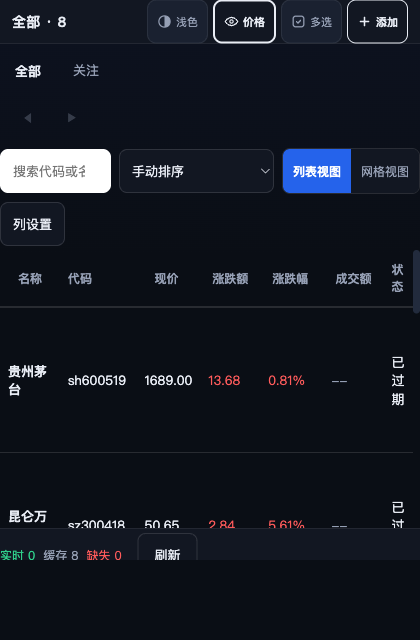
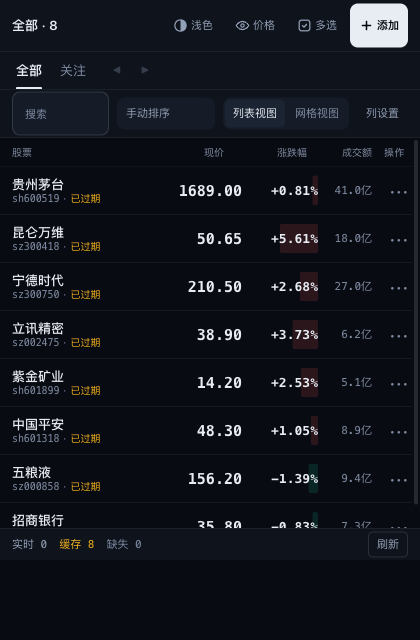
feat(ui): recoverable board states + refresh store assets for the new design
计划 Task 8 收尾：

- 骨架屏改为六行，与 390px 看板一屏行数一致，读起来像「正在来的那一屏」；
  仍然零假数字。
- 空态从一句「暂无数据」改为真正的邀请：说明文案 + 「添加股票」主操作。
  文案写进独立段落——直接设 emptyEl.textContent 会把 CTA 一起清掉。
- 空态 CTA 的监听器跟随连接周期（buildSkeleton 接收 AbortSignal），
  重连不会重复绑定。

商店素材按新视觉重拍。顺带给演示数据补上成交额：原来 8 只股票都没有 amount，
新版列表里整列渲染成 '--'，商店访客会当成功能坏了。数量级参考真实盘面。

验证：check 全绿；unit/critical 753、component 220、e2e 75、a11y 14 全过。

diff --git a/src/popup/components/stock-board.ts b/src/popup/components/stock-board.ts
@@ -5,6 +5,7 @@
 // 不含过滤、排序、RPC 或持久化逻辑。
 // 架构约束：仅 import domain + view-models + events；per-connection AbortController。
 import type { BoardViewModel } from '../view-models.js';
+import { emitPopupEvent } from './events.js';
 import './stock-grid.js';
 import './stock-table.js';
 import type { StockGridElement } from './stock-grid.js';
@@ -30,6 +31,7 @@ export class StockBoardElement extends HTMLElement {
   private loadingEl: HTMLElement | null = null;
   private errorEl: HTMLElement | null = null;
   private emptyEl: HTMLElement | null = null;
+  private emptyTextEl: HTMLElement | null = null;
   /** 惰性创建：只有被激活过的视图才会存在。 */
   private gridEl: StockGridElement | null = null;
   private tableEl: StockTableElement | null = null;
@@ -47,7 +49,7 @@ export class StockBoardElement extends HTMLElement {
     const signal = this.connection.signal;
 
     if (!this.skeletonBuilt) {
-      this.buildSkeleton();
+      this.buildSkeleton(signal);
       this.skeletonBuilt = true;
     }
 
@@ -83,7 +85,7 @@ export class StockBoardElement extends HTMLElement {
     if (this.isConnected) this.applyViewModel(value);
   }
 
-  private buildSkeleton(): void {
+  private buildSkeleton(signal: AbortSignal): void {
     this.setAttribute('role', 'region');
     this.setAttribute('aria-label', '股票看板');
 
@@ -94,7 +96,9 @@ export class StockBoardElement extends HTMLElement {
     loadingEl.setAttribute('hidden', '');
     loadingEl.setAttribute('aria-busy', 'true');
     loadingEl.setAttribute('aria-label', '加载中');
-    for (let i = 0; i < 5; i++) {
+    // 六行——与 390px 看板一屏能装下的行数一致，骨架屏才像「正在来的那一屏」。
+    // 绝不渲染假数字。
+    for (let i = 0; i < 6; i++) {
       const row = document.createElement('div');
       row.className = 'skeleton-row';
       loadingEl.append(row);
@@ -108,12 +112,25 @@ export class StockBoardElement extends HTMLElement {
     errorEl.setAttribute('hidden', '');
     this.errorEl = errorEl;
 
-    // Empty container
+    // Empty container：空态是邀请动作，不是一句「暂无数据」。
     const emptyEl = document.createElement('div');
     emptyEl.setAttribute('data-region', 'empty');
     emptyEl.className = 'board-empty';
     emptyEl.setAttribute('hidden', '');
+    const emptyText = document.createElement('p');
+    emptyText.className = 'board-empty-text';
+    emptyEl.append(emptyText);
+    const emptyCta = document.createElement('button');
+    emptyCta.type = 'button';
+    emptyCta.className = 'board-empty-cta';
+    emptyCta.setAttribute('data-action', 'empty-add-stock');
+    emptyCta.textContent = '添加股票';
+    emptyCta.addEventListener('click', () => {
+      emitPopupEvent(this, 'dialog-open-request', { kind: 'add-stock' });
+    }, { signal });
+    emptyEl.append(emptyCta);
     this.emptyEl = emptyEl;
+    this.emptyTextEl = emptyText;
 
     // list / grid 视图不在此创建——只有被激活时才惰性挂载（见 mountView）。
     this.append(loadingEl, errorEl, emptyEl);
@@ -229,7 +246,8 @@ export class StockBoardElement extends HTMLElement {
     if (this.emptyEl) {
       if (vm.empty) {
         this.emptyEl.removeAttribute('hidden');
-        this.emptyEl.textContent = vm.emptyMessage;
+        // 只写文案段落——直接设 emptyEl.textContent 会把 CTA 按钮一起清掉。
+        if (this.emptyTextEl) this.emptyTextEl.textContent = vm.emptyMessage;
       } else {
         this.emptyEl.setAttribute('hidden', '');
       }

diff --git a/tests/component/stock-board.test.ts b/tests/component/stock-board.test.ts
@@ -346,3 +346,35 @@ test('virtual focus lands on the requested stock, not the first rendered one', (
   assert.equal(focusedKey, 'sh600300', `focus landed on ${focusedKey ?? active?.tagName}`);
   void el;
 });
+
+// ===== 空态 / 骨架屏（计划 Task 8） =====
+
+test('loading renders exactly six skeleton rows and no fake numbers', () => {
+  setupBoard(board({ loading: true, stocks: [] }));
+  const loading = document.querySelector('[data-region="loading"]') as HTMLElement;
+  assert.equal(loading.querySelectorAll('.skeleton-row').length, 6);
+  assert.equal(loading.textContent, '', '骨架屏绝不渲染假数据');
+  assert.equal(loading.getAttribute('aria-busy'), 'true');
+});
+
+test('empty board offers a real add action, not just a message', () => {
+  const { spy } = setupBoard(board({ empty: true, stocks: [], emptyMessage: '这个分组还没有股票' }));
+  const empty = document.querySelector('[data-region="empty"]') as HTMLElement;
+  assert.ok(empty.textContent?.includes('这个分组还没有股票'));
+
+  const cta = document.querySelector('[data-action="empty-add-stock"]') as HTMLButtonElement;
+  assert.ok(cta, '空态提供主操作');
+  spy.reset();
+  cta.click();
+  assert.equal(spy.lastEvent('dialog-open-request')?.detail.kind, 'add-stock');
+});
+
+test('empty message updates without destroying the call to action', () => {
+  const { el } = setupBoard(board({ empty: true, stocks: [], emptyMessage: '第一次' }));
+  el.viewModel = board({ empty: true, stocks: [], emptyMessage: '第二次' });
+  assert.ok(document.querySelector('[data-region="empty"]')?.textContent?.includes('第二次'));
+  assert.ok(
+    document.querySelector('[data-action="empty-add-stock"]'),
+    '写文案时不能把 CTA 一起清掉'
+  );
+});

diff --git a/extension/popup/styles/board.css b/extension/popup/styles/board.css
@@ -389,6 +389,26 @@ stock-card[data-pinned='true'] .stock-card {
   }
 }
 
+.board-empty-text {
+  margin: 0;
+  color: var(--text-2);
+}
+
+/* 空态是邀请动作，不是一句「暂无数据」——给一个真正的主操作。 */
+.board-empty-cta {
+  min-height: 36px;
+  padding: 0 var(--sp-4);
+  font-size: var(--fs-body);
+  font-weight: 600;
+  color: var(--accent-ink);
+  background: var(--accent-fill);
+  border-radius: var(--r-md);
+}
+
+.board-empty-cta:hover {
+  opacity: 0.88;
+}
+
 .board-empty,
 .board-error {
   display: flex;
